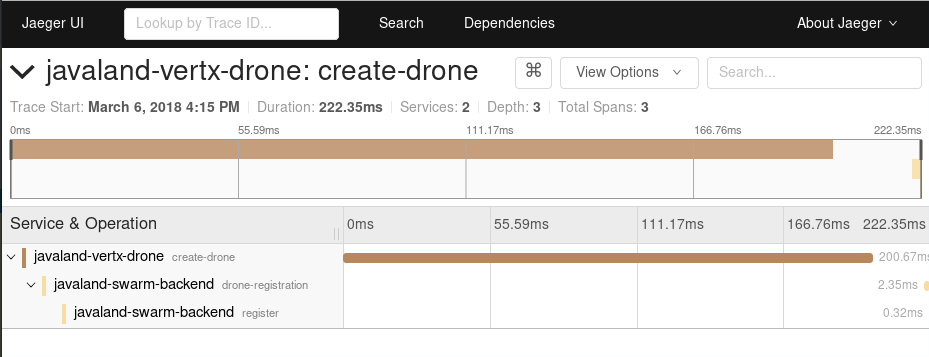
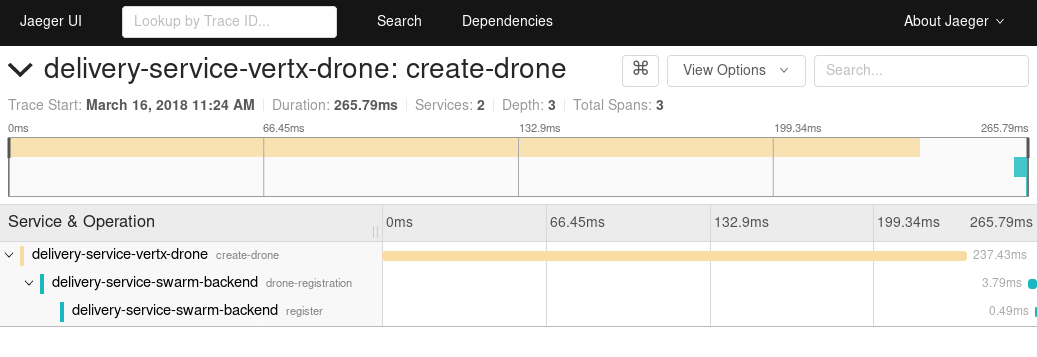
Project renamed

diff --git a/src/main/java/deliveryservice/backend/rest/boundary/RequestDroneEndpoint.java b/src/main/java/deliveryservice/backend/rest/boundary/RequestDroneEndpoint.java
@@ -1,10 +1,10 @@
-package eu.javaland.tracing.backend.rest.boundary;
+package deliveryservice.backend.rest.boundary;
 
-import eu.javaland.tracing.backend.rest.control.DispatcherService;
-import eu.javaland.tracing.backend.rest.control.LocatorService;
-import eu.javaland.tracing.backend.rest.control.ReservationService;
-import eu.javaland.tracing.backend.rest.entity.Drone;
-import eu.javaland.tracing.backend.rest.entity.DroneReservation;
+import deliveryservice.backend.rest.control.DispatcherService;
+import deliveryservice.backend.rest.control.LocatorService;
+import deliveryservice.backend.rest.entity.Drone;
+import deliveryservice.backend.rest.entity.DroneReservation;
+import deliveryservice.backend.rest.control.ReservationService;
 
 import javax.ejb.Stateless;
 import javax.inject.Inject;

diff --git a/src/main/java/deliveryservice/backend/rest/boundary/Socket.java b/src/main/java/deliveryservice/backend/rest/boundary/Socket.java
@@ -1,9 +1,9 @@
-package eu.javaland.tracing.backend.rest.boundary;
+package deliveryservice.backend.rest.boundary;
 
-import eu.javaland.tracing.backend.rest.control.RegistrationService;
-import eu.javaland.tracing.backend.rest.entity.DispatchDroneEvent;
-import eu.javaland.tracing.backend.rest.entity.Drone;
-import eu.javaland.tracing.backend.rest.entity.Location;
+import deliveryservice.backend.rest.control.RegistrationService;
+import deliveryservice.backend.rest.entity.DispatchDroneEvent;
+import deliveryservice.backend.rest.entity.Drone;
+import deliveryservice.backend.rest.entity.Location;
 import io.opentracing.*;
 import io.opentracing.propagation.Format;
 import io.opentracing.propagation.TextMapExtractAdapter;

diff --git a/src/main/java/deliveryservice/backend/rest/control/TracerInitializer.java b/src/main/java/deliveryservice/backend/rest/control/TracerInitializer.java
@@ -1,4 +1,4 @@
-package eu.javaland.tracing.backend.rest.control;
+package deliveryservice.backend.rest.control;
 
 import com.uber.jaeger.Configuration;
 import com.uber.jaeger.samplers.ConstSampler;
@@ -42,7 +42,7 @@ public class TracerInitializer implements ServletContextListener {
     }
 
     public Tracer getJaegerTracer() {
-        return new Configuration("javaland-swarm-backend")
+        return new Configuration("delivery-service-swarm-backend")
                 .withReporter(
                         new Configuration.ReporterConfiguration()
                                 .withLogSpans(true)

diff --git a/src/main/java/deliveryservice/backend/rest/control/DispatcherService.java b/src/main/java/deliveryservice/backend/rest/control/DispatcherService.java
@@ -1,8 +1,8 @@
-package eu.javaland.tracing.backend.rest.control;
+package deliveryservice.backend.rest.control;
 
-import eu.javaland.tracing.backend.rest.entity.DispatchDroneEvent;
-import eu.javaland.tracing.backend.rest.entity.Drone;
-import eu.javaland.tracing.backend.rest.entity.DroneReservation;
+import deliveryservice.backend.rest.entity.DispatchDroneEvent;
+import deliveryservice.backend.rest.entity.Drone;
+import deliveryservice.backend.rest.entity.DroneReservation;
 import org.slf4j.Logger;
 import org.slf4j.LoggerFactory;
 

diff --git a/src/main/java/deliveryservice/backend/rest/control/LocatorService.java b/src/main/java/deliveryservice/backend/rest/control/LocatorService.java
@@ -1,7 +1,7 @@
-package eu.javaland.tracing.backend.rest.control;
+package deliveryservice.backend.rest.control;
 
-import eu.javaland.tracing.backend.rest.entity.Drone;
-import eu.javaland.tracing.backend.rest.entity.Location;
+import deliveryservice.backend.rest.entity.Drone;
+import deliveryservice.backend.rest.entity.Location;
 import io.opentracing.util.GlobalTracer;
 import org.slf4j.Logger;
 import org.slf4j.LoggerFactory;

diff --git a/src/main/java/deliveryservice/backend/rest/control/ReservationService.java b/src/main/java/deliveryservice/backend/rest/control/ReservationService.java
@@ -1,7 +1,7 @@
-package eu.javaland.tracing.backend.rest.control;
+package deliveryservice.backend.rest.control;
 
-import eu.javaland.tracing.backend.rest.entity.Drone;
-import eu.javaland.tracing.backend.rest.entity.DroneReservation;
+import deliveryservice.backend.rest.entity.Drone;
+import deliveryservice.backend.rest.entity.DroneReservation;
 import org.slf4j.Logger;
 import org.slf4j.LoggerFactory;
 

diff --git a/src/main/java/deliveryservice/backend/rest/control/RegistrationService.java b/src/main/java/deliveryservice/backend/rest/control/RegistrationService.java
@@ -1,7 +1,7 @@
-package eu.javaland.tracing.backend.rest.control;
+package deliveryservice.backend.rest.control;
 
-import eu.javaland.tracing.backend.rest.entity.Drone;
-import eu.javaland.tracing.backend.rest.entity.Location;
+import deliveryservice.backend.rest.entity.Drone;
+import deliveryservice.backend.rest.entity.Location;
 import org.slf4j.Logger;
 import org.slf4j.LoggerFactory;
 

diff --git a/src/main/java/deliveryservice/backend/rest/entity/DispatchDroneEvent.java b/src/main/java/deliveryservice/backend/rest/entity/DispatchDroneEvent.java
@@ -1,4 +1,4 @@
-package eu.javaland.tracing.backend.rest.entity;
+package deliveryservice.backend.rest.entity;
 
 public class DispatchDroneEvent {
     private Drone drone;

diff --git a/src/main/java/deliveryservice/backend/rest/boundary/JavalandSwarmMetricsServlet.java b/src/main/java/deliveryservice/backend/rest/boundary/JavalandSwarmMetricsServlet.java
@@ -1,4 +1,4 @@
-package eu.javaland.tracing.backend.rest.boundary;
+package deliveryservice.backend.rest.boundary;
 
 import io.prometheus.client.exporter.MetricsServlet;
 

diff --git a/src/main/java/deliveryservice/backend/rest/entity/DroneReservation.java b/src/main/java/deliveryservice/backend/rest/entity/DroneReservation.java
@@ -1,4 +1,4 @@
-package eu.javaland.tracing.backend.rest.entity;
+package deliveryservice.backend.rest.entity;
 
 import java.time.Instant;
 

diff --git a/src/main/java/deliveryservice/backend/rest/entity/Location.java b/src/main/java/deliveryservice/backend/rest/entity/Location.java
@@ -1,4 +1,4 @@
-package eu.javaland.tracing.backend.rest.entity;
+package deliveryservice.backend.rest.entity;
 
 import java.util.Objects;
 

diff --git a/src/main/java/deliveryservice/backend/rest/entity/Drone.java b/src/main/java/deliveryservice/backend/rest/entity/Drone.java
@@ -1,4 +1,4 @@
-package eu.javaland.tracing.backend.rest.entity;
+package deliveryservice.backend.rest.entity;
 
 import java.util.UUID;
 
